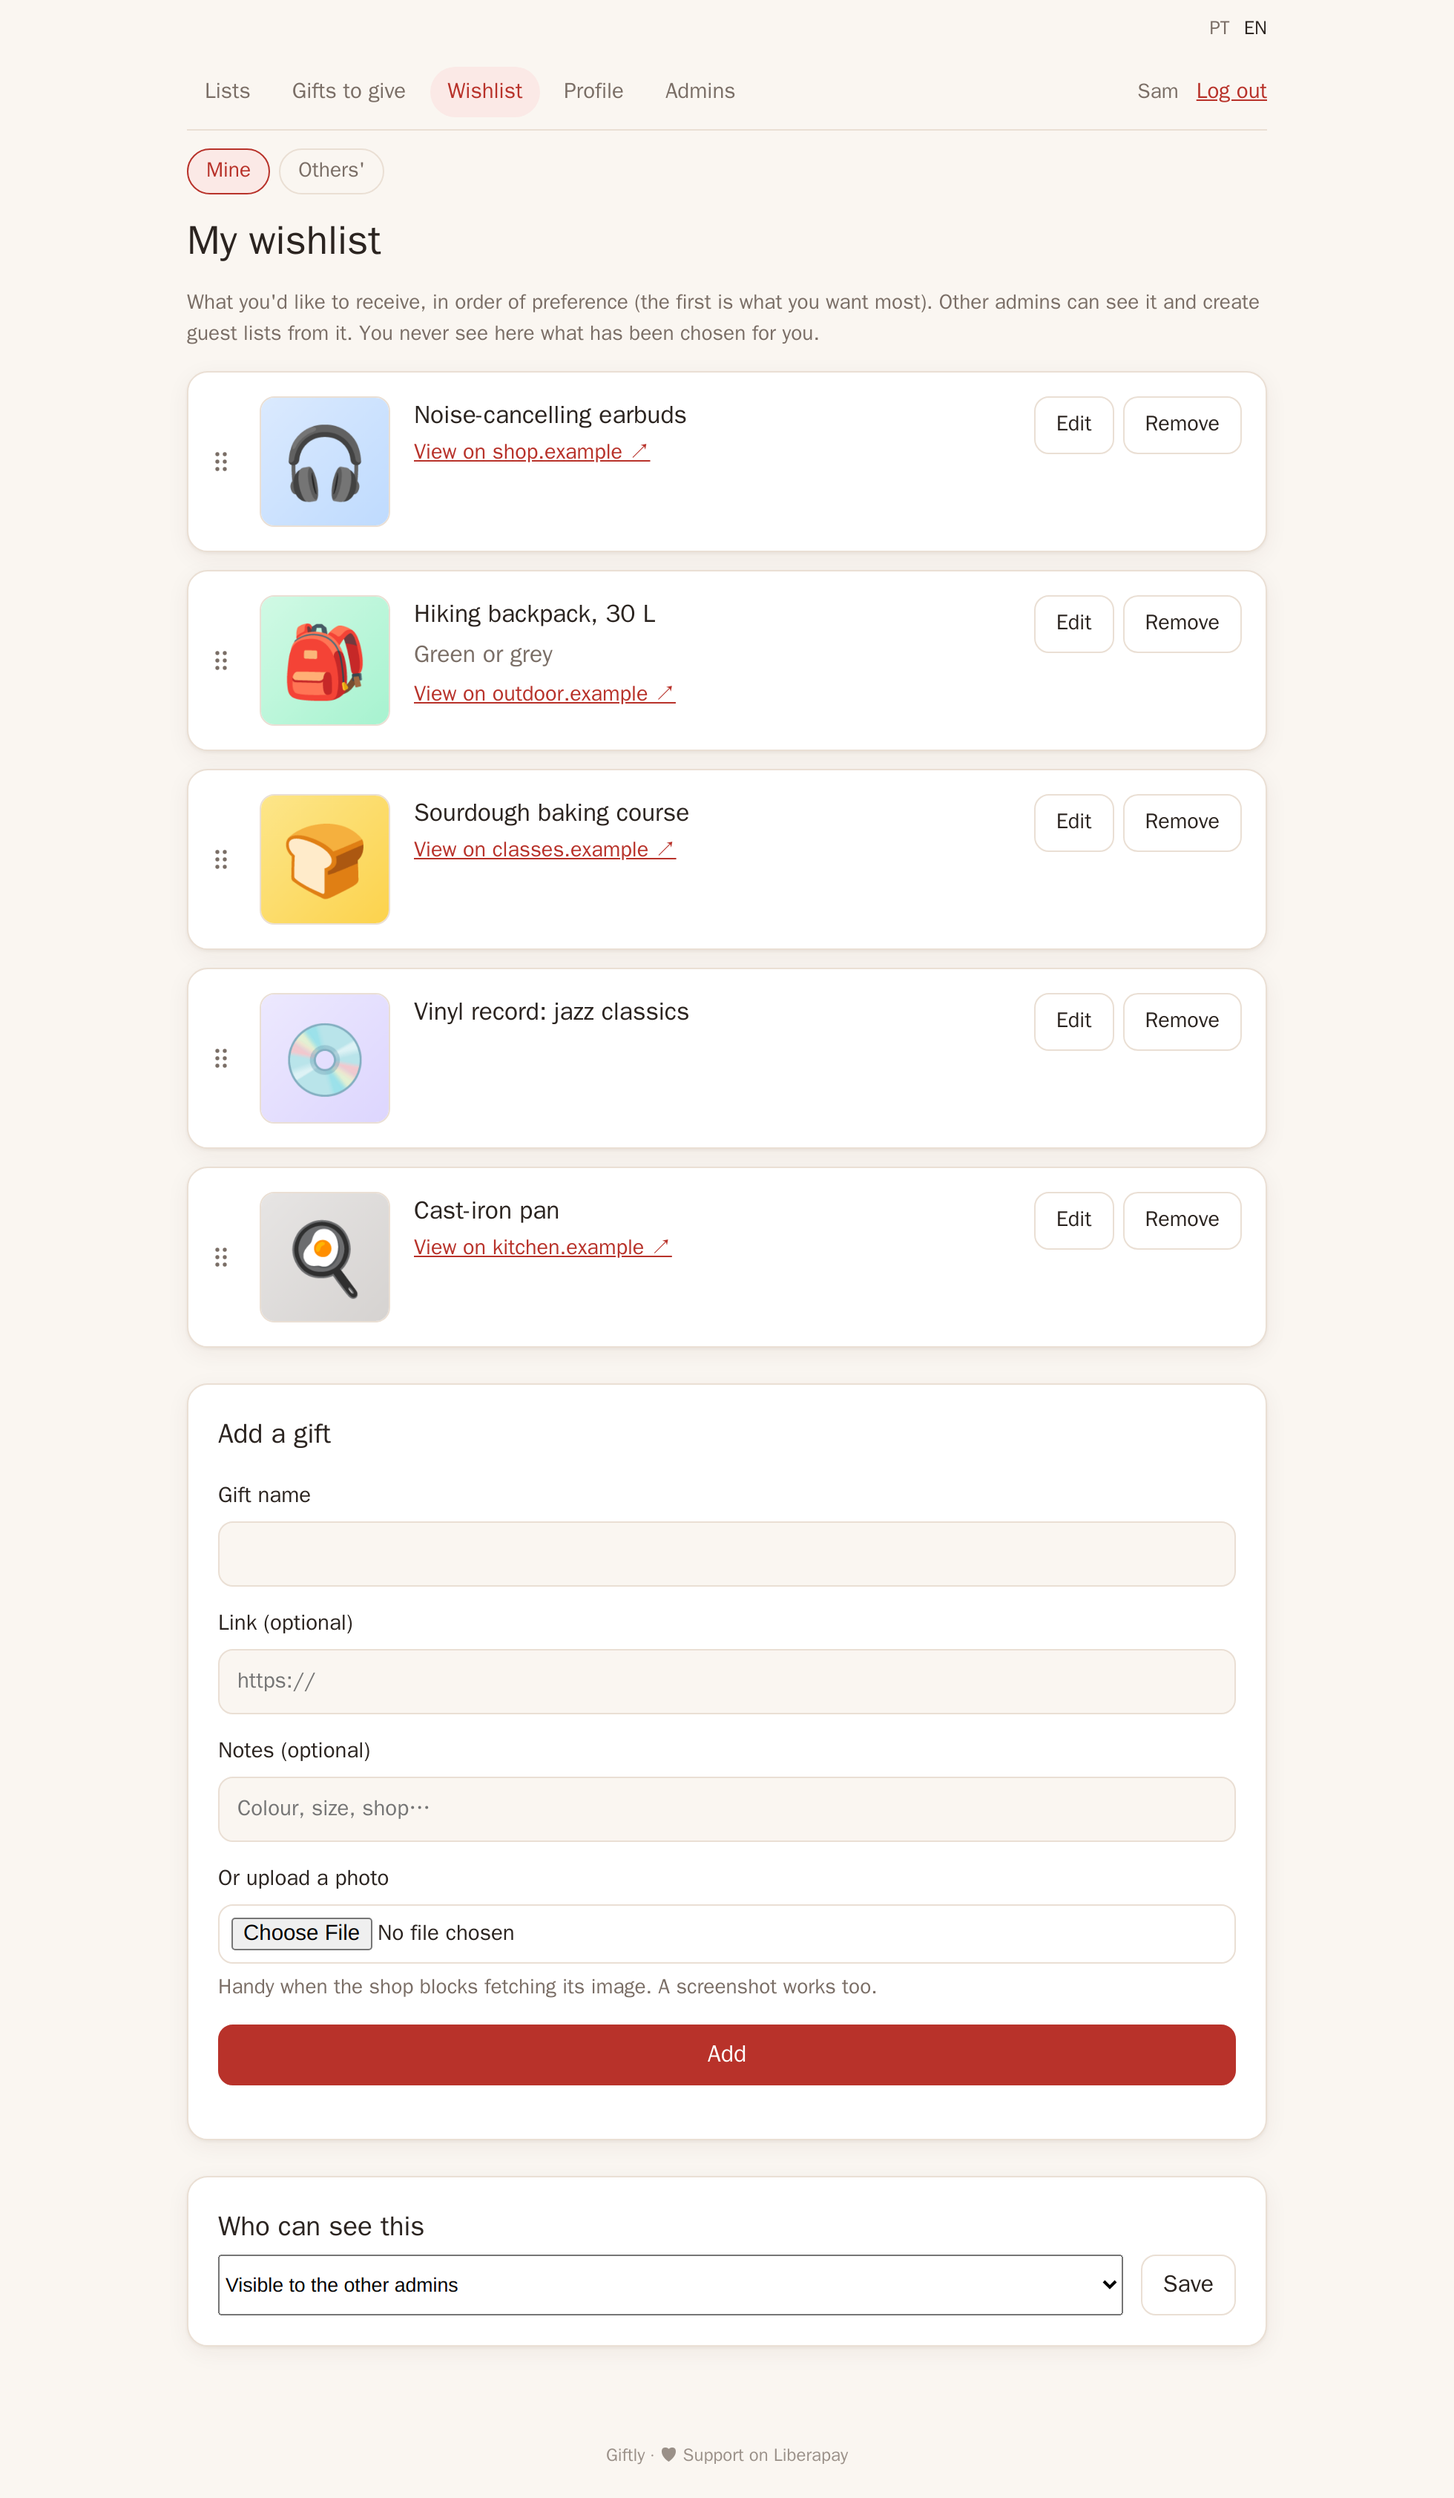
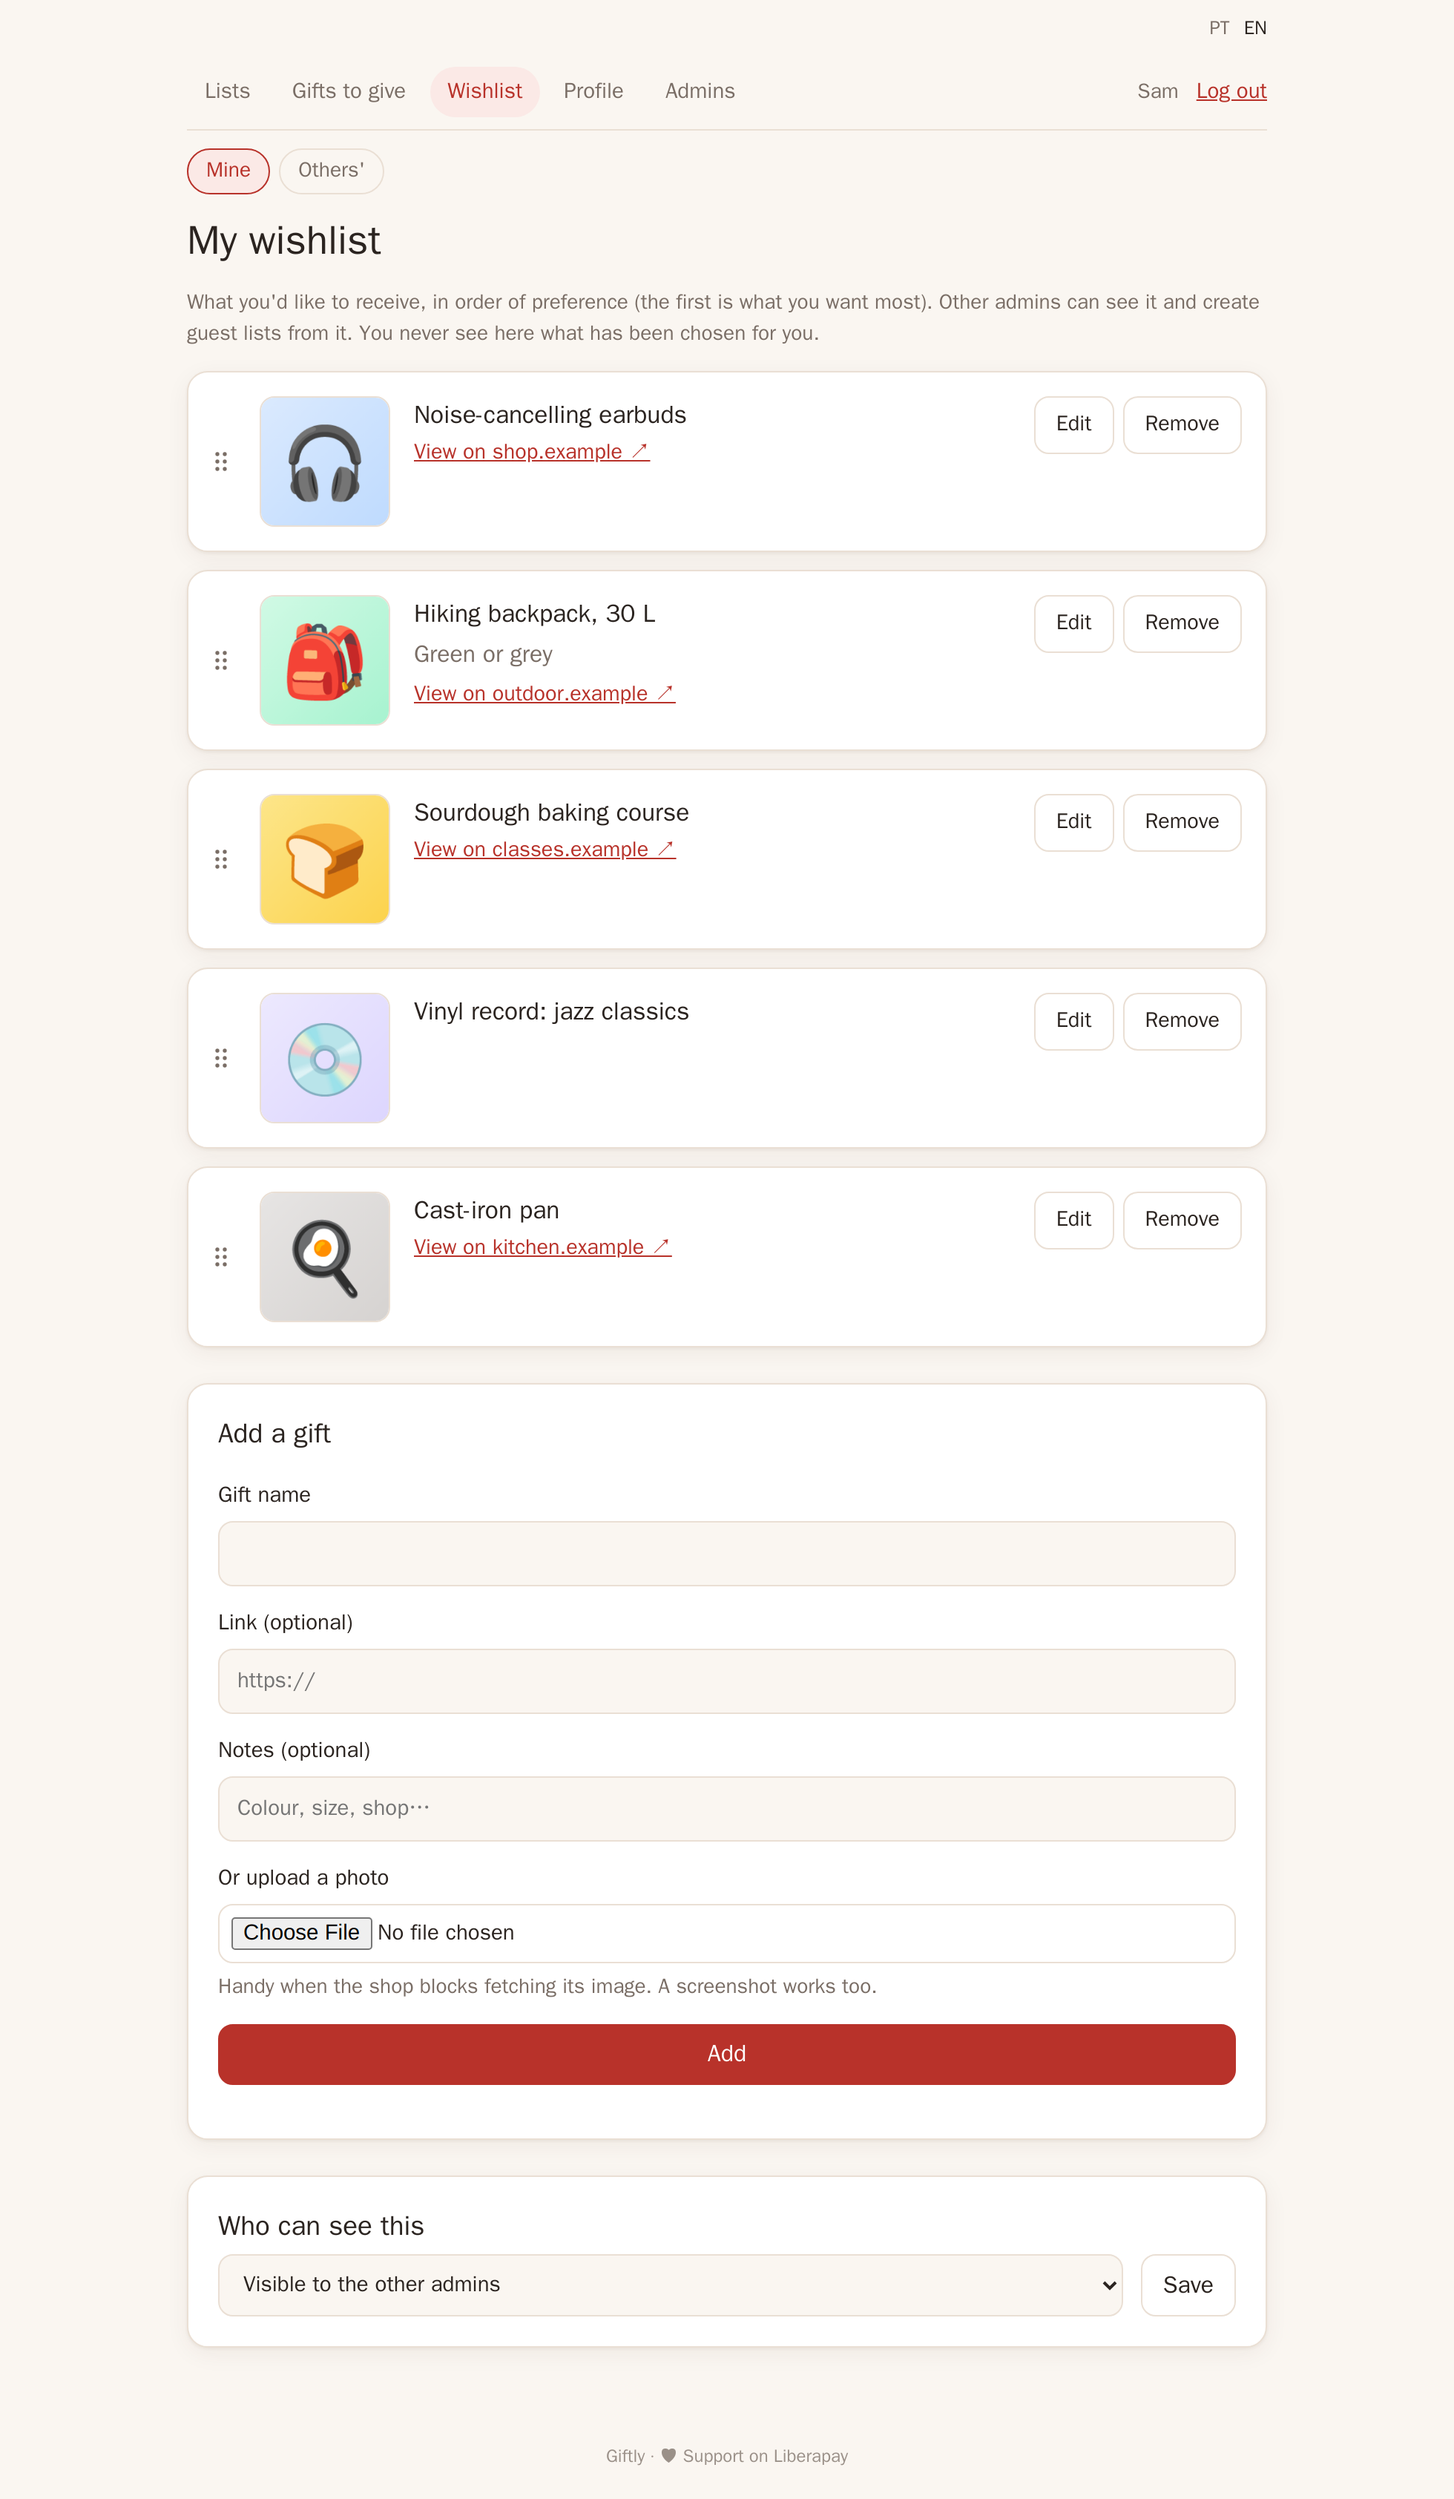
Giftly 3.2.1: fix "pick from the wishlist" opened from an occasion
- Opened from an occasion, the wishlist shows "Choosing for <occasion>" and a
  one-tap "I'll give it" per item (instead of every form opened at once), then
  returns to the occasion with the new gift.
- Correct hint for people's wishlists (the gift is shared with the other admins).
- Selects now share the inputs' style.

Changed region(s): [[0.1556, 0.7487, 0.5913, 0.8111], [0.1556, 0.8734, 0.3423, 0.9358]]

diff --git a/src/wishlistViews.js b/src/wishlistViews.js
@@ -157,7 +157,14 @@ ${list.length ? h`<ul class="lists">
   });
 }
 
-function giveForm(ctx, w, it, choices, preselect, back = '') {
+function giveForm(ctx, w, it, choices, preselect, back = '', pick = null) {
+  // Opened from an occasion: one tap, the occasion is already chosen.
+  if (pick) {
+    return h`<form method="post" action="/admin/wishlists/${w.id}/items/${it.id}/give" class="give-now">
+      ${csrfField(ctx)}<input type="hidden" name="occasion" value="${pick.value}">${back ? h`<input type="hidden" name="back" value="${back}">` : ''}
+      <button type="submit" class="primary">🎁 ${ctx.t('wish.illGive')}</button>
+    </form>`;
+  }
   return h`<details class="edit"${preselect ? raw(' open') : ''}>
     <summary class="button primary">${ctx.t('wish.illGive')}</summary>
     <form method="post" action="/admin/wishlists/${w.id}/items/${it.id}/give" class="stack">
@@ -168,7 +175,7 @@ function giveForm(ctx, w, it, choices, preselect, back = '') {
         </select>
       </label>
       ${choices.length ? '' : h`<p class="small muted">${ctx.t('wish.noGiveChoices')}</p>`}
-      <p class="small muted">${ctx.t('wish.illGiveHint', { name: w.owner_name })}</p>
+      <p class="small muted">${ctx.t(w.person_id ? 'wish.illGiveHintPerson' : 'wish.illGiveHint', { name: w.owner_name })}</p>
       <button type="submit" class="primary">${ctx.t('wish.illGive')}</button>
     </form>
   </details>`;
@@ -179,8 +186,15 @@ function giveForm(ctx, w, it, choices, preselect, back = '') {
  * "create a list". `editable` (a person's wishlist) adds edit/remove/reorder and an add form.
  */
 export function wishSection(ctx, { w, items, choices = [], preselect = '', lists = [], editable = false, personId = null, back = '', history = [] }) {
-  const sortable = editable && items.length > 1;
+  // Coming from an occasion ("pick from the wishlist"): a banner, one-tap buttons, back to it after.
+  const pick = choices.find((c) => c.value === preselect) ?? null;
+  const pickBack = pick?.value.startsWith('occasion:') ? `/admin/give/occasions/${pick.value.split(':')[1]}` : back;
+  const sortable = editable && items.length > 1 && !pick;
   return h`
+${pick ? h`<div class="pick-banner">
+  <span>🎁 ${ctx.t('wish.pickingFor')} <strong>${pick.label.key ? ctx.t(pick.label.key, pick.label.vars) : pick.label.text}</strong></span>
+  ${pickBack !== back ? h`<a class="small" href="${pickBack}">← ${ctx.t('wish.pickBack')}</a>` : ''}
+</div>` : ''}
 <p class="row">
   <a class="button secondary" href="/admin/wishlists/${w.id}/new-list">＋ ${ctx.t('wish.createList')}</a>
   ${lists.length ? h`<span class="small">${ctx.t('wish.yourLists')}: ${lists.map((l, i) => h`${i ? ', ' : ''}<a href="/admin/lists/${l.id}">${l.title}</a>`)}</span>` : ''}
@@ -196,8 +210,8 @@ ${items.length ? h`<ul class="items admin-items"${sortable ? h` data-sortable="/
       ${it.preview_status === 'pending' ? h`<p class="small muted" data-preview-status="${it.id}">${ctx.t('preview.pending')}</p>` : ''}
     </div>
     <div class="actions">
-      ${it.claimed ? '' : giveForm(ctx, w, it, choices, preselect, back)}
-      ${editable ? h`
+      ${it.claimed ? '' : giveForm(ctx, w, it, choices, preselect, pick ? pickBack : back, pick)}
+      ${editable && !pick ? h`
         ${idx > 0 ? postButton(ctx, `/admin/wishlist/items/${it.id}/move`, '↑', { cls: 'icon move', extra: '<input type="hidden" name="dir" value="up">' }) : ''}
         ${idx < items.length - 1 ? postButton(ctx, `/admin/wishlist/items/${it.id}/move`, '↓', { cls: 'icon move', extra: '<input type="hidden" name="dir" value="down">' }) : ''}
         ${editForm(ctx, it)}

diff --git a/public/style.css b/public/style.css
@@ -73,12 +73,12 @@ hr { border: 0; border-top: 1px solid var(--line); margin: 1.2rem 0; }
 label { display: grid; gap: 6px; font-weight: 600; font-size: .92rem; }
 label.check { display: flex; align-items: center; gap: 8px; font-weight: 500; }
 label .small { font-weight: 400; }
-input, textarea {
+input, textarea, select {
   font: inherit; color: inherit; background: var(--bg);
   border: 1px solid var(--line); border-radius: 10px; padding: 10px 12px; width: 100%;
 }
-input[type=checkbox] { width: auto; }
-input:focus, textarea:focus { outline: 2px solid var(--accent); outline-offset: 1px; border-color: transparent; }
+input[type=checkbox], input[type=radio] { width: auto; }
+input:focus, textarea:focus, select:focus { outline: 2px solid var(--accent); outline-offset: 1px; border-color: transparent; }
 .row { display: flex; gap: 12px; flex-wrap: wrap; }
 .row .grow { flex: 1 1 220px; }
 details summary { cursor: pointer; color: var(--accent); font-weight: 600; margin-top: .5rem; }
@@ -297,3 +297,9 @@ details.to-list[open] { flex: 1 1 100%; }
 [data-sortable].sorting > .item:not(.dragging) { transition: transform .15s; }
 .js-sortable button.move, .js-sortable form:has(> button.move) { display: none; }
 @media (max-width: 520px) { .item > .drag-handle { align-self: flex-start; margin-top: 2px; } }
+
+/* "Pick from the wishlist", opened from an occasion */
+.pick-banner { display: flex; flex-wrap: wrap; align-items: center; justify-content: space-between; gap: 8px 12px;
+  background: var(--accent-soft, #fdecea); border-radius: 12px; padding: 10px 14px; margin: .6rem 0 1rem; }
+.pick-banner strong { font-weight: 600; }
+form.give-now { margin: 0; }

diff --git a/test/v32.test.js b/test/v32.test.js
@@ -144,3 +144,19 @@ test('upgrading: shared ideas for non-admins move to the wishlist; private ideas
   assert.deepEqual(left, ['Idea for admin', 'Private idea']);
   assert.equal(settings.all('migrations.').ideas_to_wishlists, '1');
 });
+
+test('"pick from the wishlist" from an occasion: one-tap buttons, then back to the occasion', async () => {
+  const kid = await addPerson(diogo, { name: 'Pick32' });
+  const wi = await addWish(diogo, kid, 'Robot kit');
+  await addWish(diogo, kid, 'Paint set');
+  const y = new Date().getFullYear() + 40;
+  const occ = idFrom((await diogo.post('/admin/give/occasions/christmas', { year: String(y) }, { from: '/admin/give/occasions' })).location, 'give/occasions');
+  const page = (await diogo.get(`/admin/give/people/${kid}?occasion=occasion:${occ}`)).text;
+  assert.match(page, new RegExp(`Choosing for <strong>Christmas ${y}</strong>`));
+  assert.equal((page.match(/class="give-now"/g) || []).length, 2, 'one button per free item');
+  assert.ok(!/<details class="edit" open>/.test(page), 'no forms opened all at once');
+  const wid = await wishlistIdOf(diogo, kid);
+  const r = await diogo.post(`/admin/wishlists/${wid}/items/${wi}/give`, { occasion: `occasion:${occ}`, back: `/admin/give/occasions/${occ}` }, { from: `/admin/give/people/${kid}` });
+  assert.match(r.location, new RegExp(`^/admin/give/occasions/${occ}\\?m=giving#gift-\\d+$`));
+  assert.match((await diogo.get(`/admin/give/occasions/${occ}`)).text, /Robot kit/);
+});

diff --git a/src/i18n.js b/src/i18n.js
@@ -1,5 +1,8 @@
 const strings = {
   pt: {
+    "wish.illGiveHintPerson": "Fica reservado em todas as listas e entra em “Prendas a dar”, partilhado com os outros administradores.",
+    "wish.pickingFor": "A escolher para",
+    "wish.pickBack": "Voltar à ocasião",
     "wish.selfPerson": "Esta ficha és tu. A tua wishlist (sem saber o que já foi escolhido) está em",
     "wish.adminPrivate": "{name} tem a wishlist privada.",
     "wish.personIntro": "O que esta pessoa gostava de receber. Todos os administradores que a veem podem editar, criar listas a partir daqui (ligadas, com sync) e usar “Dou eu”.",
@@ -419,6 +422,9 @@ const strings = {
     'error.home': 'Ir para o início',
   },
   en: {
+    "wish.illGiveHintPerson": "It gets reserved in every list and goes into “Gifts to give”, shared with the other admins.",
+    "wish.pickingFor": "Choosing for",
+    "wish.pickBack": "Back to the occasion",
     "wish.selfPerson": "This record is you. Your wishlist (without knowing what was chosen) is at",
     "wish.adminPrivate": "{name}'s wishlist is private.",
     "wish.personIntro": "What this person would like to receive. Every admin who can see them can edit it, create lists from it (linked, kept in sync) and use “I'll give it”.",

diff --git a/src/wishlistRoutes.js b/src/wishlistRoutes.js
@@ -272,7 +272,7 @@ export function registerWishlistRoutes({ route, html, redirect, notFound, clean,
     } catch (err) {
       if (!err.taken) throw err; // someone reserved it first (a guest, or another admin)
     }
-    if (!giftId) return redirect(ctx.res, `${back}?m=taken#wish-${wi.id}`);
-    redirect(ctx.res, `${back}?m=giving#wish-${wi.id}`);
+    if (!giftId) return redirect(ctx.res, `${back}?m=taken${back.startsWith('/admin/give/occasions/') ? '' : `#wish-${wi.id}`}`);
+    redirect(ctx.res, `${back}?m=giving${back.startsWith('/admin/give/occasions/') ? `#gift-${giftId}` : `#wish-${wi.id}`}`);
   }, A);
 }

diff --git a/src/views.js b/src/views.js
@@ -68,7 +68,7 @@ function layout(ctx, { title, body, bodyClass = '' }) {
 <link rel="manifest" href="/site.webmanifest">
 <meta name="theme-color" content="#C8553D">
 <meta name="apple-mobile-web-app-title" content="${site}">
-<link rel="stylesheet" href="/static/style.css?v=20">
+<link rel="stylesheet" href="/static/style.css?v=21">
 <script src="/static/app.js?v=5" defer></script>
 </head>
 <body class="${bodyClass}">
